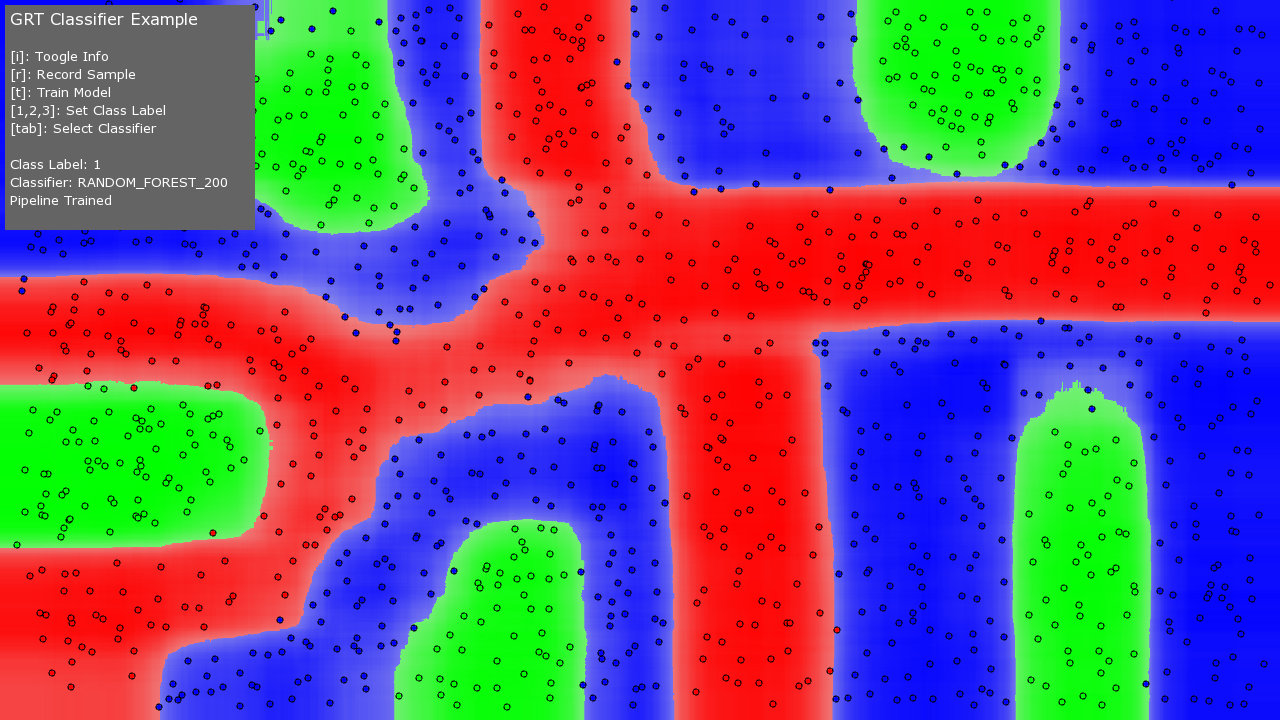
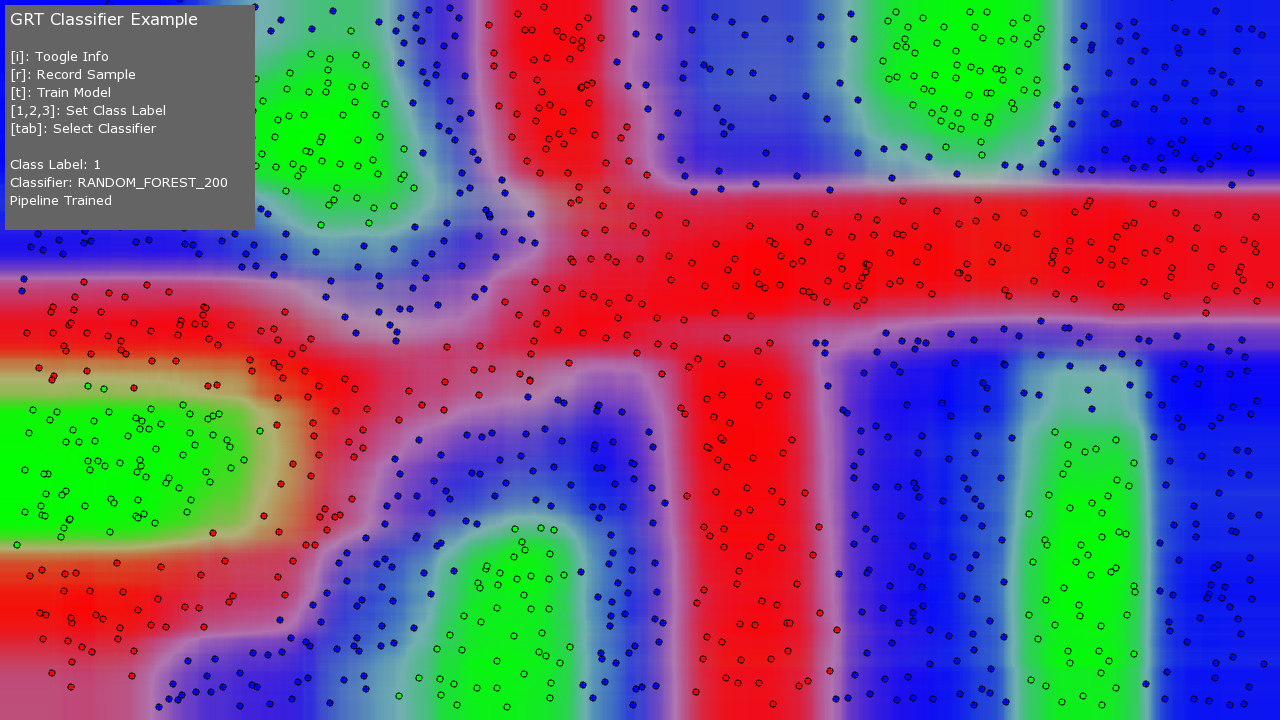
added classification likelihood crossfade

diff --git a/example_classification/src/ofApp.cpp b/example_classification/src/ofApp.cpp
@@ -186,6 +186,7 @@ void ofApp::keyPressed(int key){
         VectorFloat likelihoods;
         float r,g,b,a;
         float maximumLikelihood;
+        const UINT numClasses = pipeline.getNumClasses();
         for(unsigned int j=0; j<cols; j++){
             for(unsigned int i=0; i<rows; i++){
                 featureVector[0] = i/double(rows);
@@ -194,33 +195,54 @@ void ofApp::keyPressed(int key){
                     classLabel = pipeline.getPredictedClassLabel();
                     maximumLikelihood = pipeline.getMaximumLikelihood();
                     likelihoods = pipeline.getClassLikelihoods();
-                    switch( classLabel ){
-                        case 1:
-                            r = 1.0;
-                            g = 0.0;
-                            b = 0.0;
-                            a = maximumLikelihood;
+                    if( numClasses <= 3 ){
+                        //If there are three or less class then we can use the class likelihoods to blend the colors
+                        switch( classLabel ){
+                            case 1:
+                            case 2:
+                            case 3:
+                                r = likelihoods[0];
+                                g = likelihoods[1];
+                                b = likelihoods[2];
+                                a = maximumLikelihood;
+                                break;
+                            default:
+                                r = 0;
+                                g = 0;
+                                b = 0;
+                                a = 1;
                             break;
-                        case 2: 
-                            r = 0.0;
-                            g = 1.0;
-                            b = 0.0;
-                            a = maximumLikelihood;
+                        }
+                    }else{
+                        switch( classLabel ){
+                            case 1:
+                                r = 1.0;
+                                g = 0.0;
+                                b = 0.0;
+                                a = maximumLikelihood;
+                                break;
+                            case 2: 
+                                r = 0.0;
+                                g = 1.0;
+                                b = 0.0;
+                                a = maximumLikelihood;
+                                break;
+                            case 3: 
+                                r = 0.0;
+                                g = 0.0;
+                                b = 1.0;
+                                a = maximumLikelihood;
+                                break;
                             break;
-                        case 3: 
-                            r = 0.0;
-                            g = 0.0;
-                            b = 1.0;
-                            a = maximumLikelihood;
+                            default:
+                                r = 1;
+                                g = 0;
+                                b = 1;
+                                a = 1;
                             break;
-                        break;
-                        default:
-                            r = 1;
-                            g = 0;
-                            b = 1;
-                            a = 1;
-                        break;
+                        }
                     }
+                    
                     pixelData[ index++ ] = r;
                     pixelData[ index++ ] = g;
                     pixelData[ index++ ] = b;
